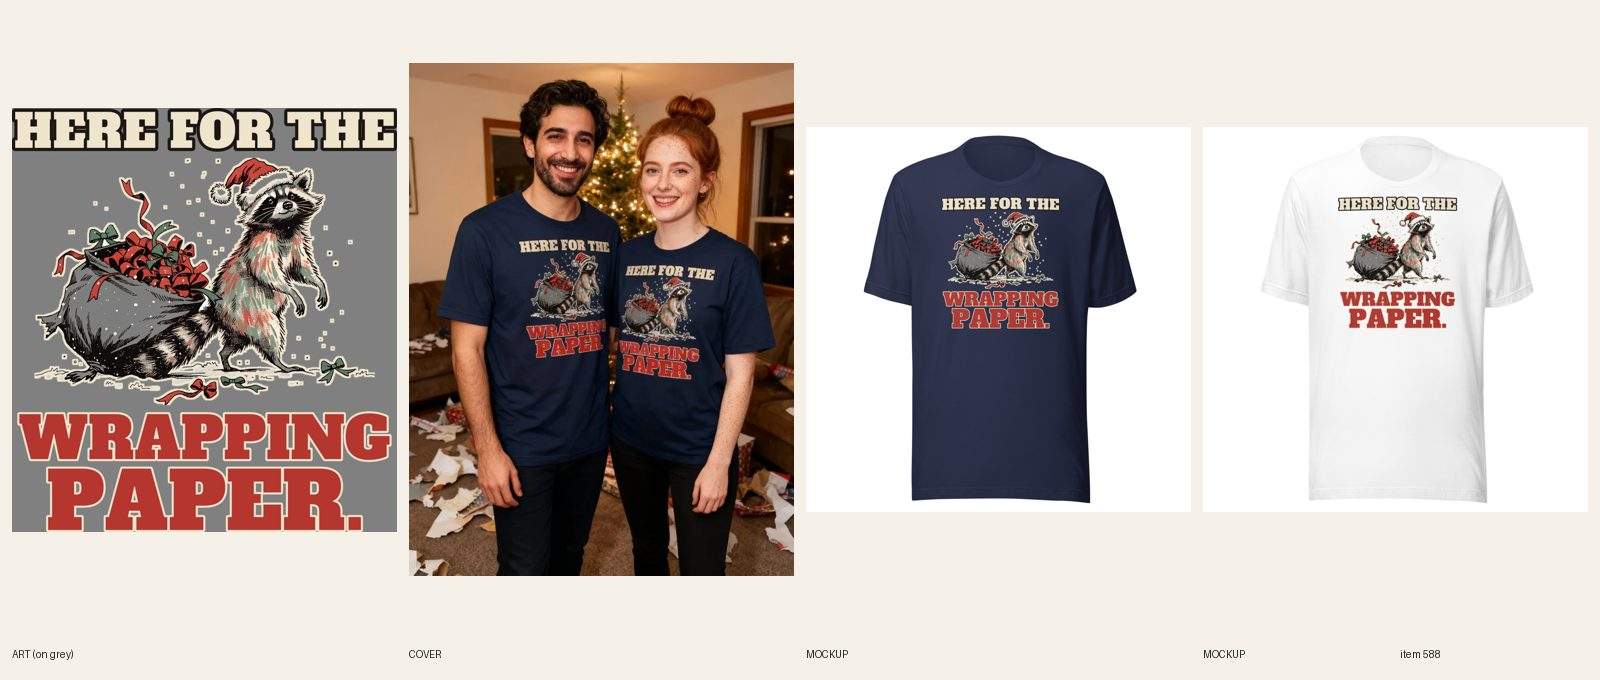
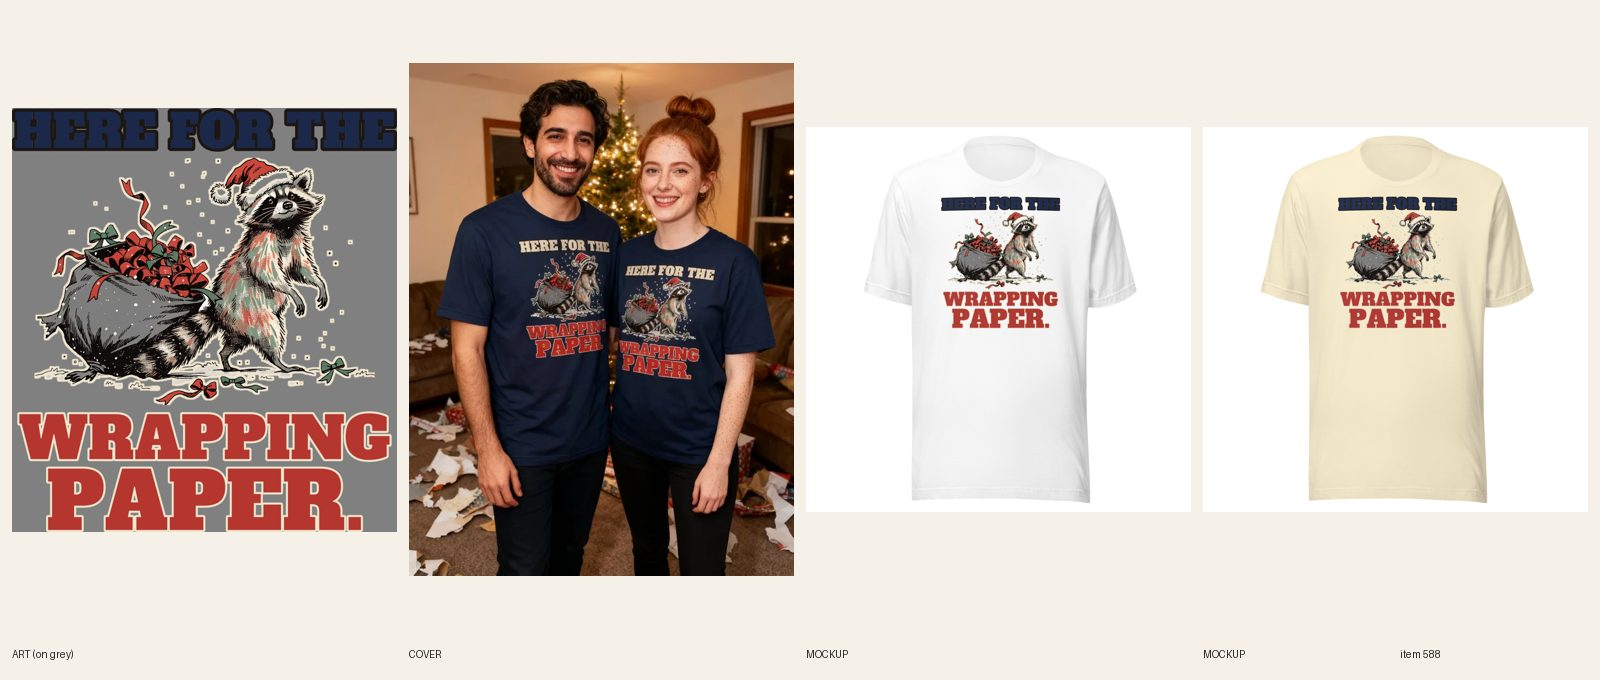
[A] review 588 raccoon wrapping paper tee (light-blank file)

Changed region(s): [[0.5312, 0.1853, 0.7188, 0.7412], [0.7812, 0.1853, 0.9688, 0.7412], [0.0, 0.1544, 0.25, 0.2162]]

diff --git a/docs/pipeline/588-christmas-raccoon-tee-here-for-the-wrapping-paper.md b/docs/pipeline/588-christmas-raccoon-tee-here-for-the-wrapping-paper.md
@@ -1,4 +1,4 @@
-status: REDO
+status: REVIEW
 lane: A
 type: new
 id: 588
@@ -31,3 +31,4 @@ shopify: gid://shopify/Product/15364880531760
 - 2026-10-18 07:23 UTC builder [A]: WIP: art Recraft try 1 ($0.04, kept: raccoon fur carries red/green print texture, read as worn screen print), print 3421x3764 (cream HERE FOR THE w/ dark edge; red WRAPPING / PAPER. w/ cream edge; cream halo), Printful file 1088751252, FW 1650 TOP 75. DRAFT gid 15364880531760 (3001, 8 colors x S-4XL = 56, $24.99, no compare-at). 'trash panda shirt' 1,300/KD48.
 - 2026-10-18 09:11 UTC builder [A]: REVIEW: Printful sync 482702962 verified 56/56 on default file 1088751252 (FW 1650, back logo 1080398177); every color has its own mockup (R7.7c); audit-local PASS 0 warn (only 'not visible' for a draft); cover checked (all words read, nothing over the print); design-crops cannot see drafts (Storefront): run after publish.
 - 2026-10-18 09:22 UTC director: REDO (stays DRAFT). R5.3.8: HERE FOR THE is a cream fill with a dark keyline, and one file is linked to every color, White included. Light blanks (White and any other light color offered) need their own file with HERE FOR THE in solid dark ink (navy or deep brown, no cream fill), linked to those variants; check the fill on the White mockup at phone size, log the file ids and counts (R7.7), regenerate those mockups and remake docs/review/588.jpg. Navy and dark colors keep the current file. Cover (Navy couple) passes.
+- 2026-10-18 10:25 UTC builder [A]: REVIEW (R5.3.8 REDO): light file: White, Natural, Ash, Athletic Heather on 1088788502, headline fill navy #1b284a (dark keyline, cream halo removed from the headline only), FW 1650 TOP 75; 28/28 verified. Dark file 1088751252 on Dark Grey Heather, Navy, Black, Heather Forest 28/28; back logo 1080398177 on all 56. New mockups for the four light colors replace the old media (variants stay linked); White read at 400 px, HERE FOR THE reads navy on white. Sheet docs/review/588.jpg remade. fal $0.
